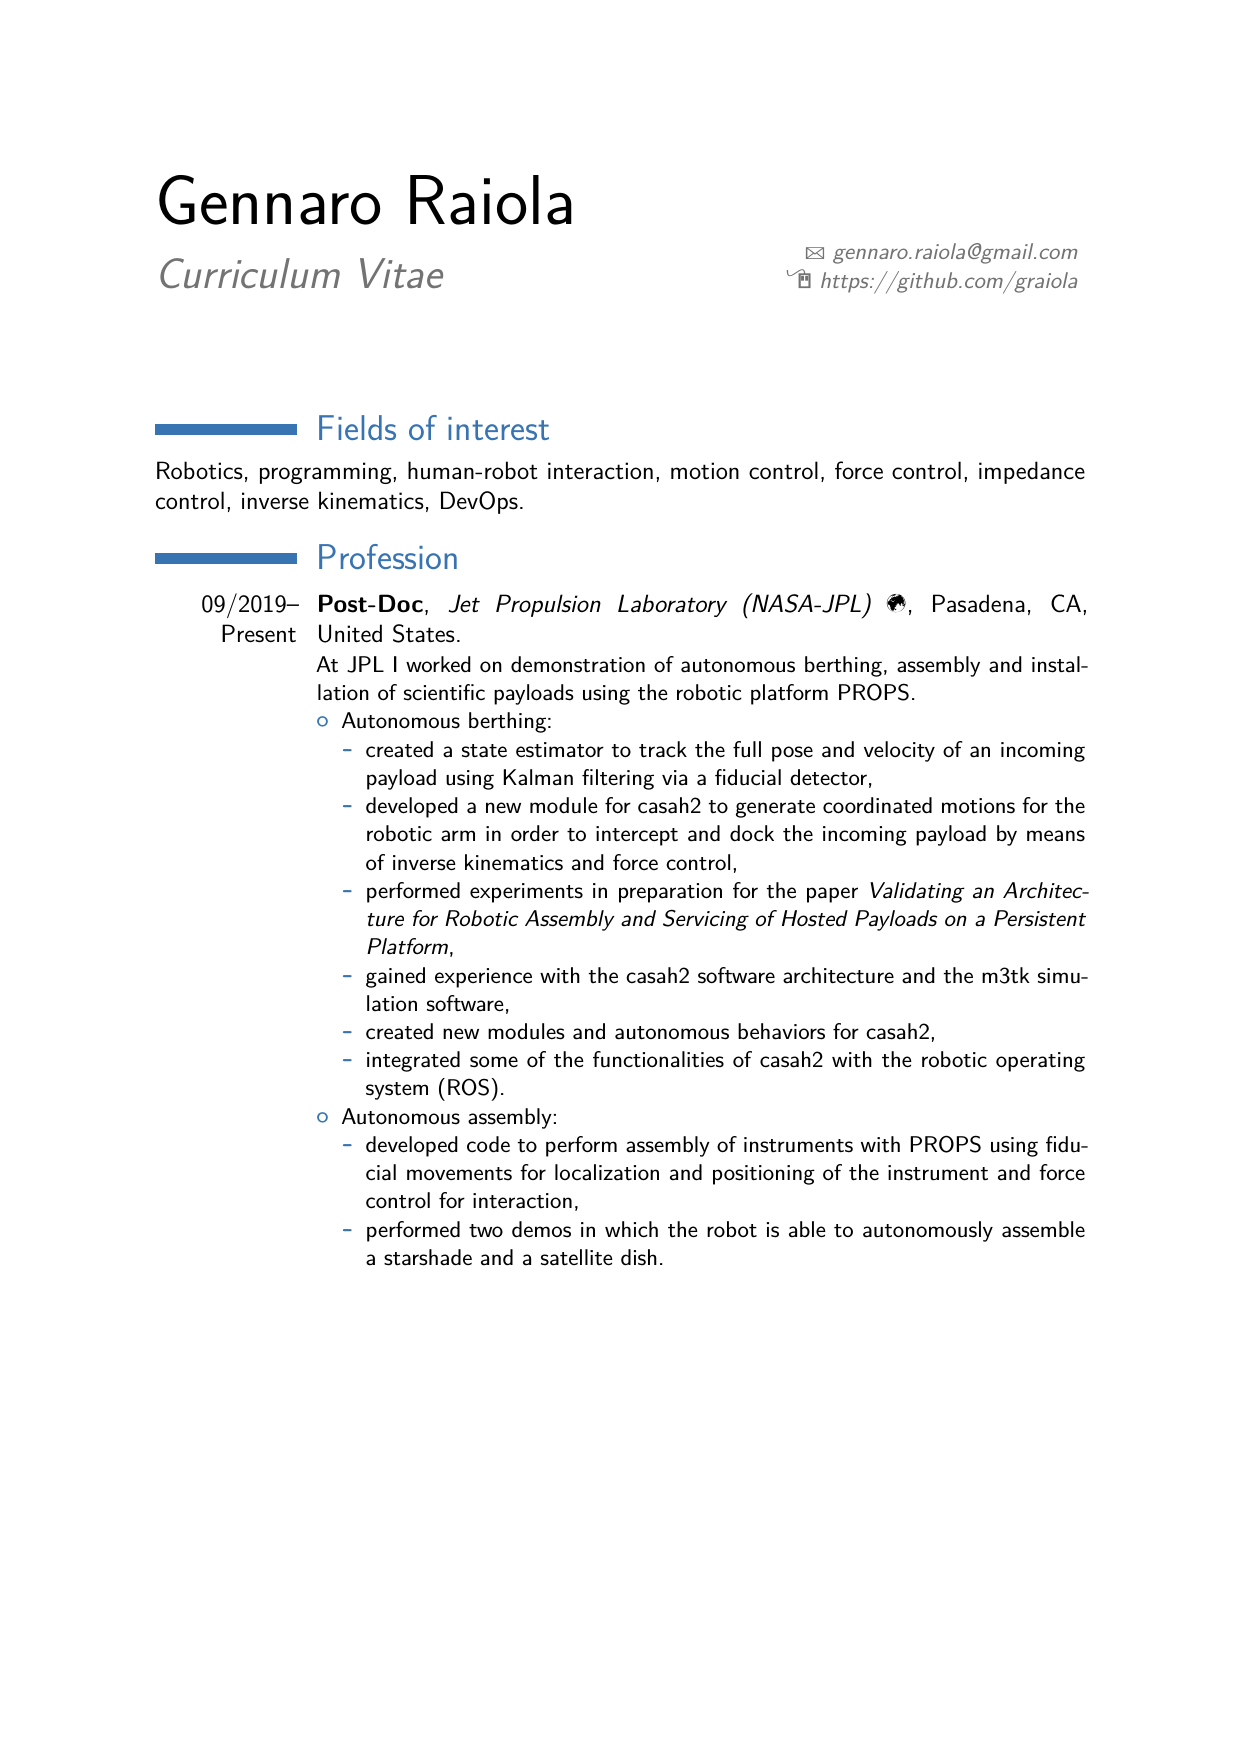
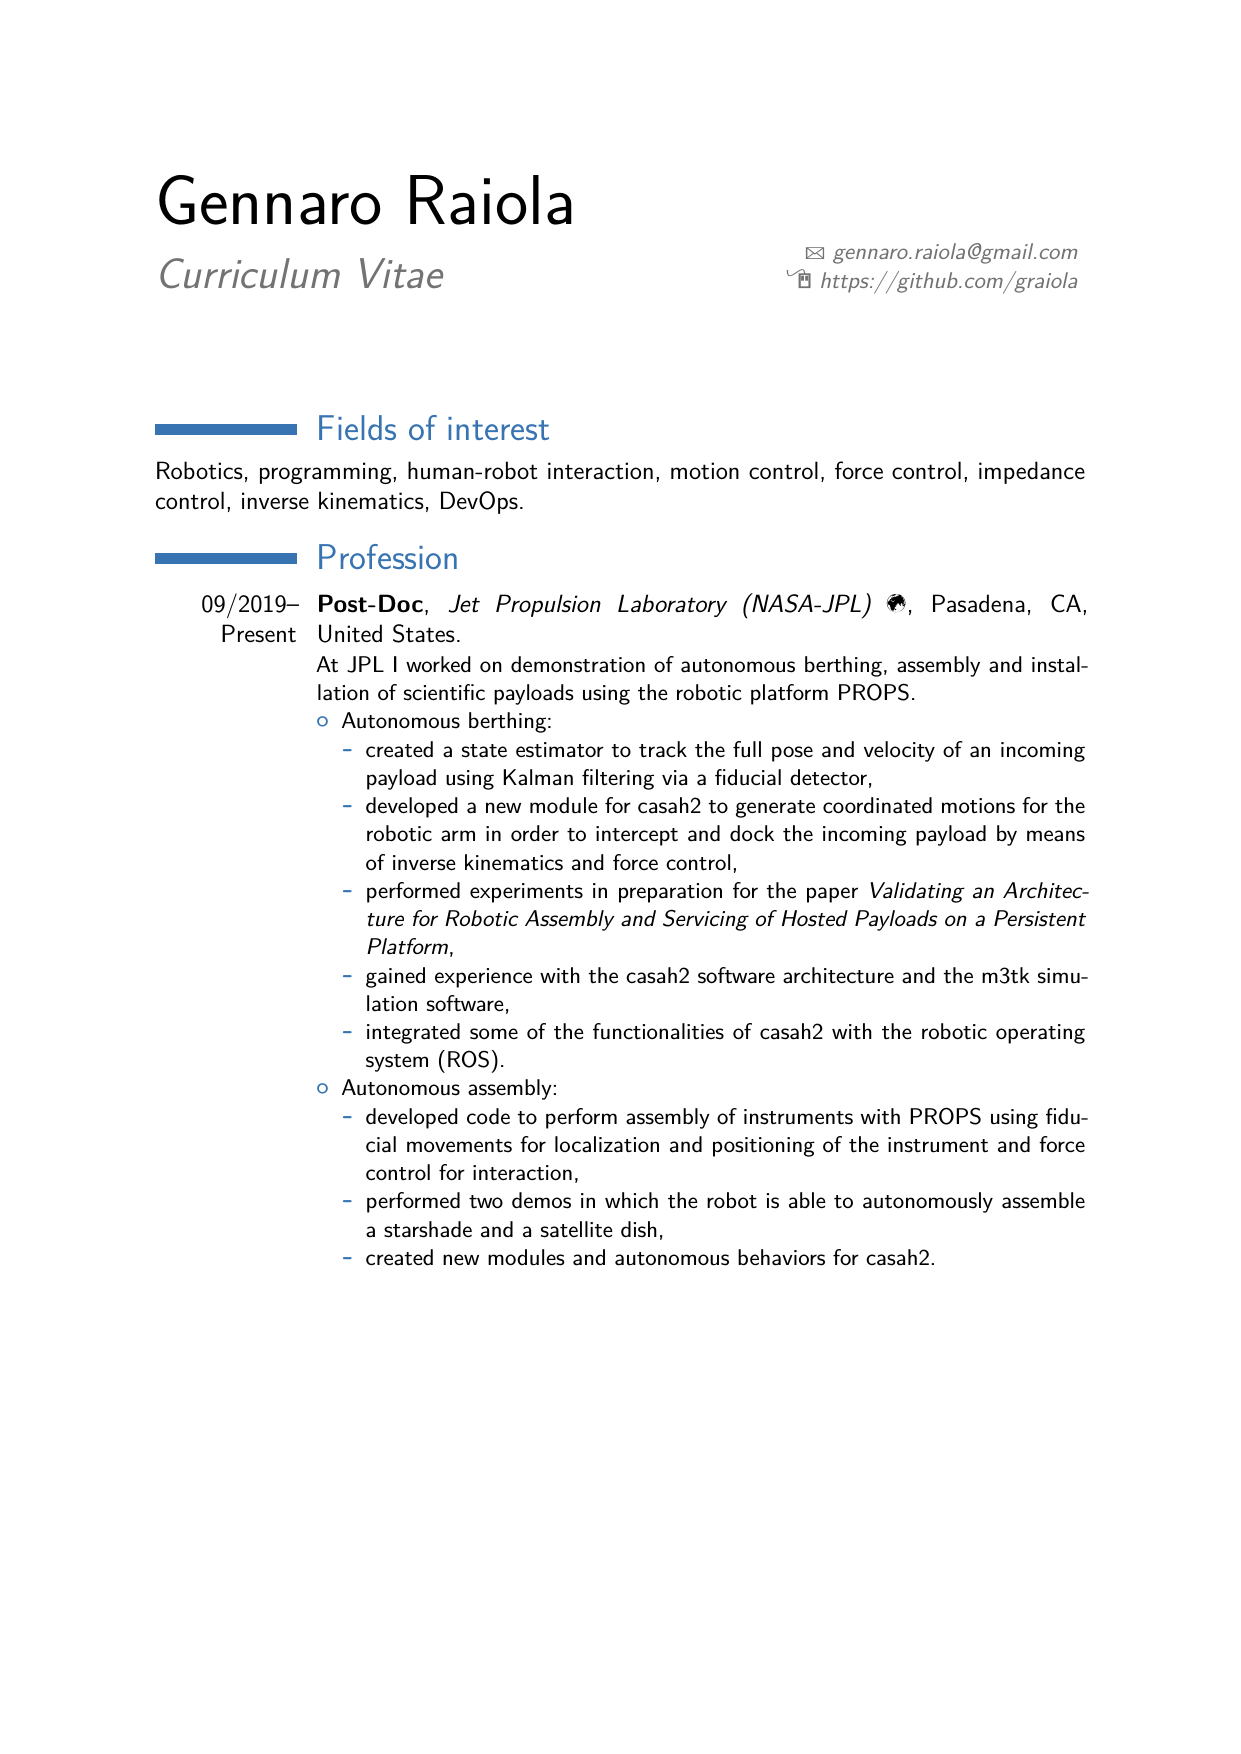
Generated files updated on Wed Jun 24 10:43:45 PDT 2020

Changed region(s): [[0.2756, 0.5849, 0.888, 0.7389]]

diff --git a/CV_Gennaro-Raiola.tex b/CV_Gennaro-Raiola.tex
@@ -92,13 +92,13 @@ At JPL I worked on demonstration of autonomous berthing, assembly and installati
 \item developed a new module for casah2 to generate coordinated motions for the robotic arm in order to intercept and dock the incoming payload by means of inverse kinematics and force control,
 \item performed experiments in preparation for the paper \emph{Validating an Architecture for Robotic Assembly and Servicing of Hosted Payloads on a Persistent Platform},
 \item gained experience with the casah2 software architecture and the m3tk simulation software,
-\item created new modules and autonomous behaviors for casah2,
 \item integrated some of the functionalities of casah2 with the robotic operating system (ROS).
 \end{itemize}
 \item Autonomous assembly:
 \begin{itemize}
 \item developed code to perform assembly of instruments with PROPS using fiducial movements for localization and positioning of the instrument and force control for interaction,
-\item performed two demos in which the robot is able to autonomously assemble a starshade and a satellite dish.
+\item performed two demos in which the robot is able to autonomously assemble a starshade and a satellite dish,
+\item created new modules and autonomous behaviors for casah2.
 \end{itemize}
 \end{itemize}}
 
